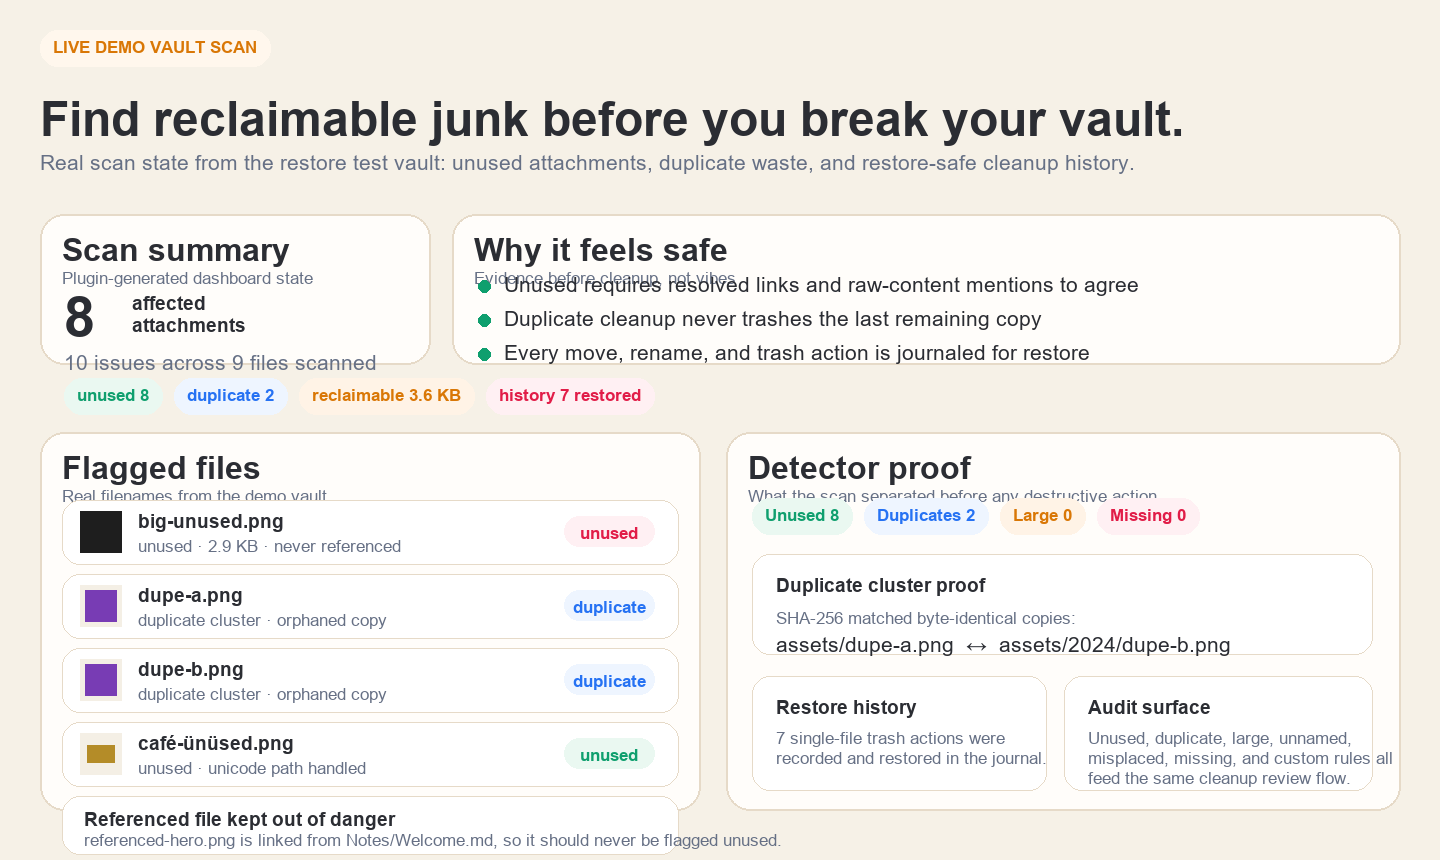
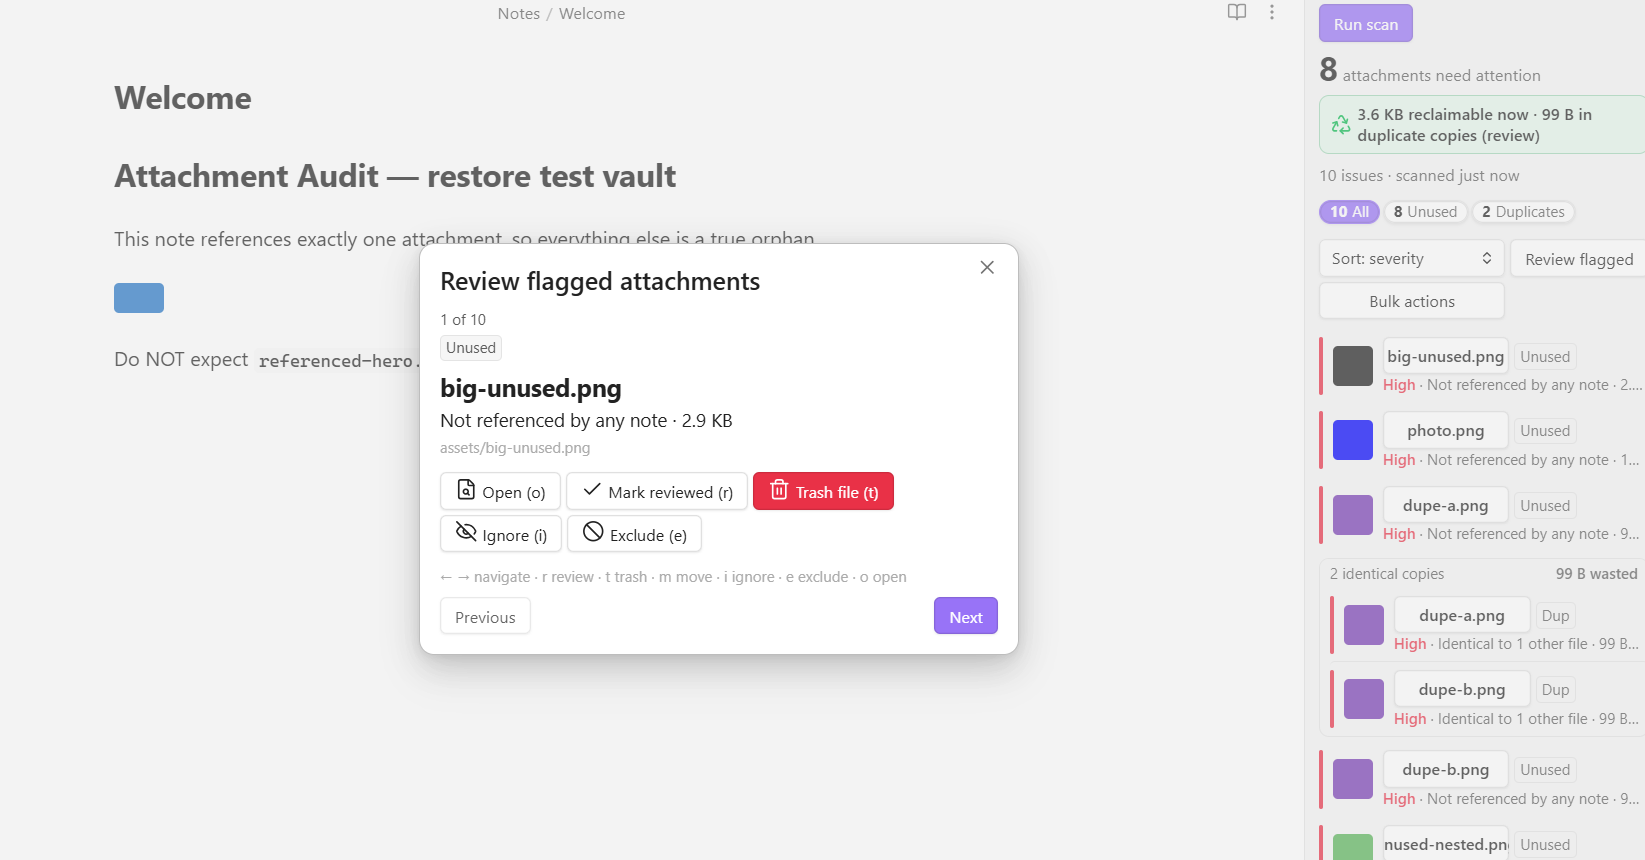
docs: replace Attachment Audit hero with live vault capture

diff --git a/README.md b/README.md
@@ -8,7 +8,7 @@ Attachment Audit scans your vault for truly unused attachments, duplicates, over
 
 ![Attachment Audit hero: real demo-vault scan state showing flagged files, duplicate proof, and cleanup-safety cues](docs/assets/hero.png)
 
-> Hero image uses the plugin's real restore-test-vault scan summary plus live filenames and duplicate evidence from that same demo state. It is a truth-first composed dashboard still, not a fake mockup.
+> Hero image is a live Obsidian capture from the restore test vault after a real scan: the flagged-attachment review modal is open in the center, and the right-side dashboard shows the same scan summary and grouped findings.
 
 
 Free lets you scan and clean one file at a time. Pro unlocks bulk cleanup, saved scan profiles, custom rules, severity tuning, and Markdown reports.
